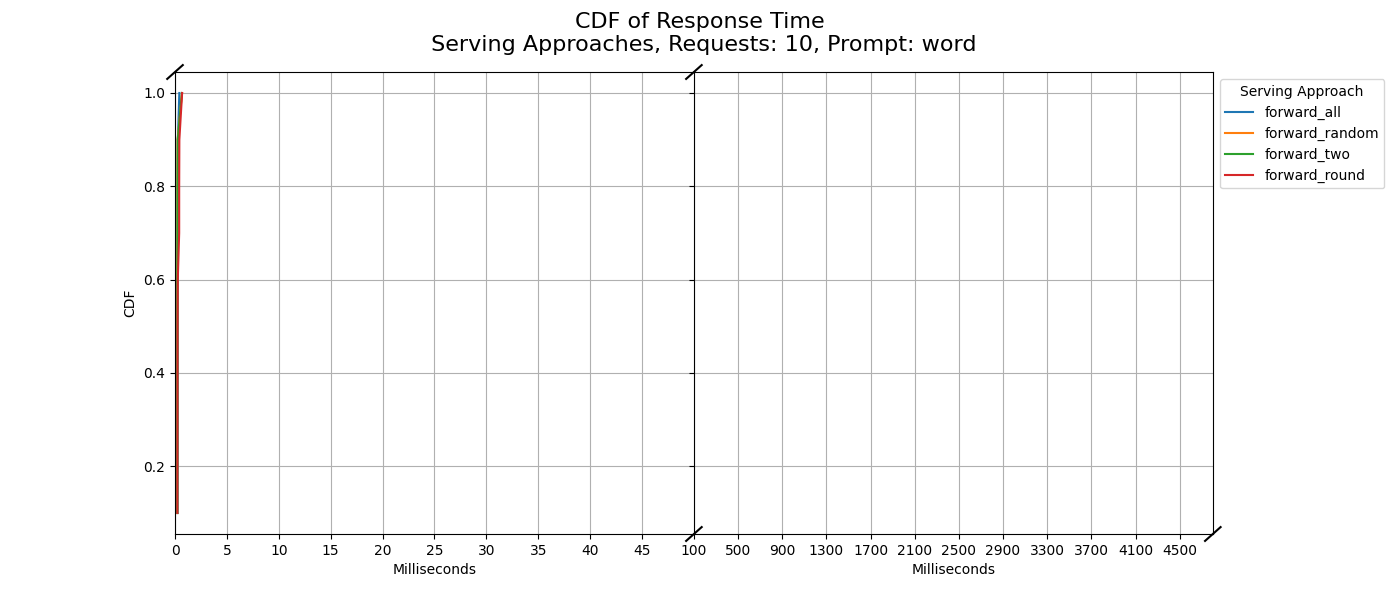
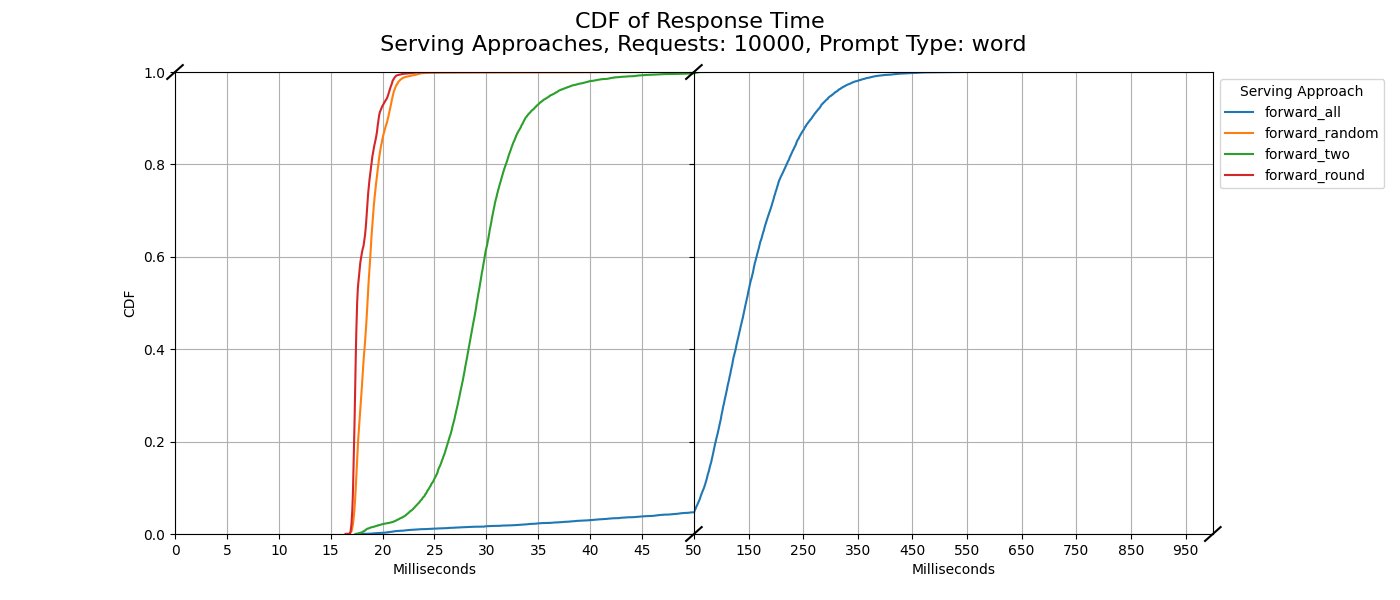
finishing touches

diff --git a/measurement/measure.py b/measurement/measure.py
@@ -2,6 +2,7 @@ import subprocess
 
 import psutil #pip install psutil
 
+
 # python3 measure.py --num_requests <number_of_requests> --measure <cdf / lead> --load_levels <load_level1> <load_level2> ...
 
 import requests 
@@ -78,6 +79,7 @@ def calculate_cdf(num_requests = 1, prompt = ""):
         sorted_latencies = np.sort(np.array(latencies))
         cdf = np.arange(1, len(sorted_latencies) + 1) / len(sorted_latencies)
 
+
         # Plot the data on both axes with different y-limits
         ax1.plot(sorted_latencies, cdf, marker=None, label=f'{serving_approach}')
         ax2.plot(sorted_latencies, cdf, marker=None, label=f'{serving_approach}')
@@ -85,6 +87,9 @@ def calculate_cdf(num_requests = 1, prompt = ""):
     # Set x-limits to focus on the desired ranges and create the break
     ax2.set_xlim(100, 4800)  # Adjust based on the specific range needed before the gap
     ax1.set_xlim(0, 50)     # Adjust based on the specific range needed after the gap
+    # Set y-limits to ensure the y-axis starts at 0
+    ax1.set_ylim(0, 1)
+    ax2.set_ylim(0, 1)
 
     # Define custom y-ticks for each axis
     xticks1 = np.concatenate([
@@ -133,7 +138,7 @@ def calculate_cdf(num_requests = 1, prompt = ""):
     ax1.spines['right'].set_visible(False)
     ax2.legend(title='Serving Approach', bbox_to_anchor=(1, 1), loc='upper left')
 
-    fig.suptitle(f'CDF of Response Time\n Serving Approaches, Requests: {num_requests}, Prompt: {prompt}', fontsize=16, ha='center')
+    fig.suptitle(f'CDF of Response Time\n Serving Approaches, Requests: {num_requests}, Prompt Type: {prompt}', fontsize=16, ha='center')
     ax1.grid(True)
     ax2.grid(True)
 
@@ -205,22 +210,22 @@ def measure_load_vs_latency(load_levels, prompt=""):
         ax1.plot(loads, avg_latencies, marker=None, label=f'{serving_approach}')
         ax2.plot(loads, avg_latencies, marker=None, label=f'{serving_approach}')
 
-    # Set y-limits to focus on the desired ranges and create the break
-    ax1.set_ylim(100, 4800)  # Adjust based on the specific range needed before the gap
+    # Set x-limits to focus on the desired ranges and create the break
+    ax1.set_ylim(51, 1000)  # Adjust based on the specific range needed before the gap
     ax2.set_ylim(0, 50)     # Adjust based on the specific range needed after the gap
 
     # Define custom y-ticks for each axis
-    yticks1 = np.concatenate([
+    yticks2 = np.concatenate([
         np.arange(0, 50, 5),     # 20.2, 20.4, ..., 30
     ])
 
-    yticks2 = np.concatenate([
-        np.arange(100, 4900, 400)
+    yticks1 = np.concatenate([
+        np.arange(50, 1000, 100)
     ])
 
     # Apply custom y-ticks to each subplot
-    ax1.set_yticks(yticks2)
-    ax2.set_yticks(yticks1)
+    ax1.set_yticks(yticks1)
+    ax2.set_yticks(yticks2)
 
     # Manually adjust positions to overlap subplots
     ax1_pos = ax1.get_position()  # Get the original position of ax1
@@ -251,7 +256,7 @@ def measure_load_vs_latency(load_levels, prompt=""):
     fig.suptitle(
         f'Load vs Average Latency for Different Serving Approaches\n'
         f'Load: {load_levels_str}\n'
-        f'Prompt: {prompt}',
+        f'Prompt Type: {prompt}',
     )
     ax1.legend(title='Serving Approach', bbox_to_anchor=(1.05, 1), loc='upper left')
     ax1.grid(True)
